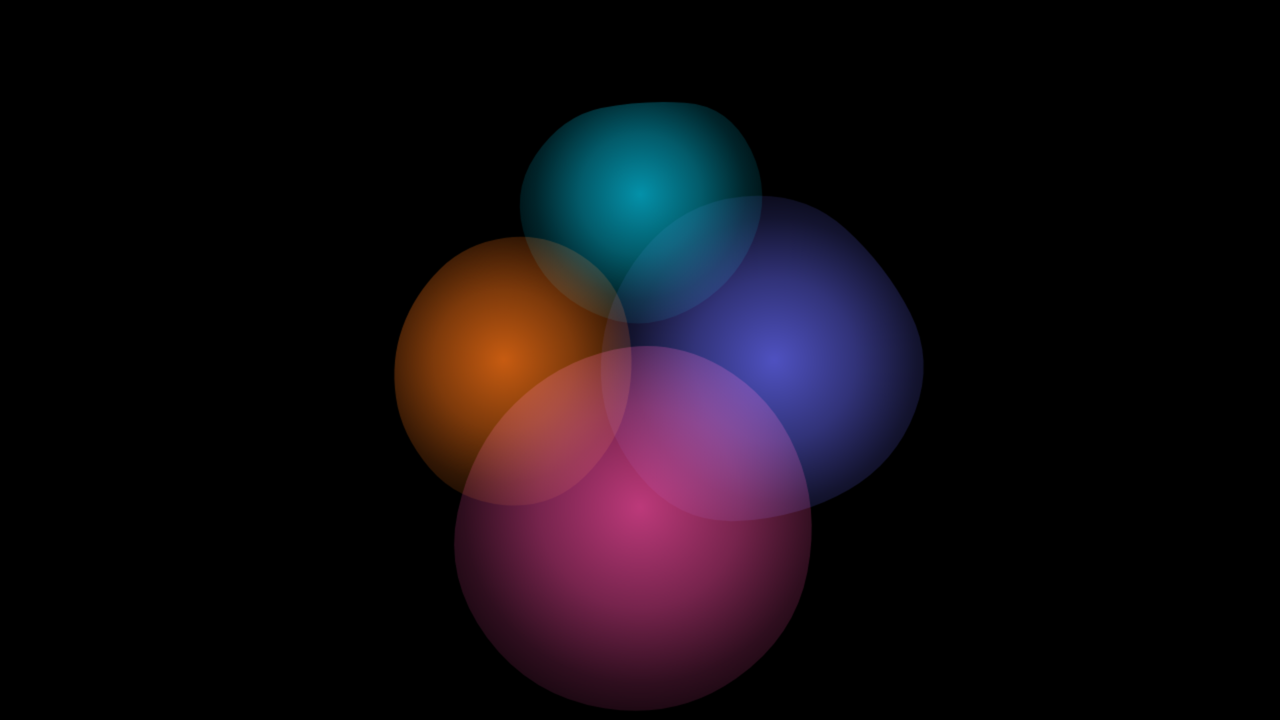
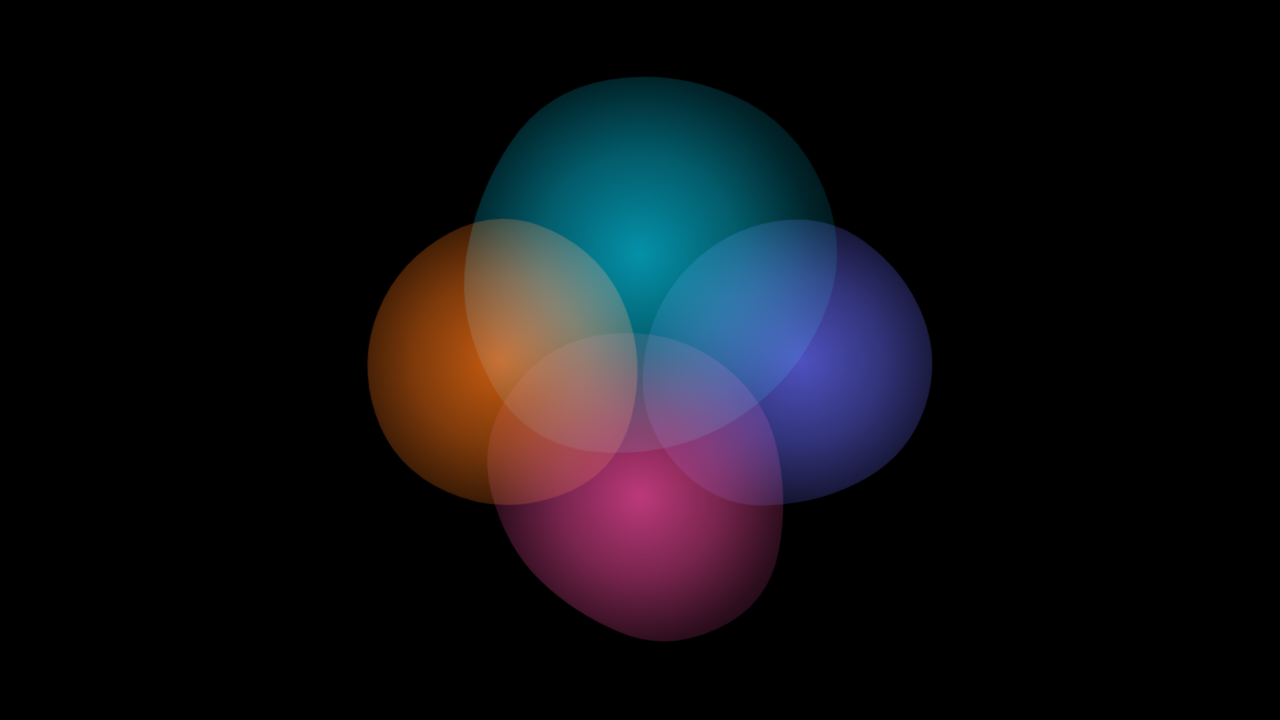
feat(gradient-waves): add screenshot capture and regenerate all effect screenshots
- Added Gradient Waves to screenshot capture pipeline (screenshot-capture.html and capture-screenshots.mjs)
- Captured gradient-waves.png at 1280x720 using Stripe preset colors
- Regenerated all existing effect screenshots for consistency
- README already references gradient-waves.png in effect grid

Changed region(s): [[0.2812, 0.0917, 0.75, 1.0], [0.4688, 0.2139, 0.5312, 0.275]]

diff --git a/src/AppHost/wwwroot/screenshot-capture.html b/src/AppHost/wwwroot/screenshot-capture.html
@@ -31,11 +31,12 @@
     <script type="module">
         // ─── Effect Module Map ──────────────────────────────────────
         const EFFECT_MODULES = {
-            aurora:     './_content/BlazorEffects.Aurora/aurora-borealis.js',
-            noise:      './_content/BlazorEffects.Noise/noise-field.js',
-            blobs:      './_content/BlazorEffects.Blobs/morphing-blobs.js',
-            matrixrain: './_content/BlazorEffects.MatrixRain/matrix-rain.js',
-            particles:  './_content/BlazorEffects.Particles/particle-constellation.js',
+            aurora:         './_content/BlazorEffects.Aurora/aurora-borealis.js',
+            noise:          './_content/BlazorEffects.Noise/noise-field.js',
+            blobs:          './_content/BlazorEffects.Blobs/morphing-blobs.js',
+            matrixrain:     './_content/BlazorEffects.MatrixRain/matrix-rain.js',
+            particles:      './_content/BlazorEffects.Particles/particle-constellation.js',
+            gradientwaves:  './_content/BlazorEffects.GradientWaves/gradient-waves.js',
         };
 
         // ─── Default Configs (matched to each effect's normalizeConfig defaults) ───
@@ -93,6 +94,16 @@
                 mouseRadius: 150,
                 mouseForce: 'attract',
                 opacity: 0.6,
+                targetFps: 60,
+            },
+            gradientwaves: {
+                colors: ['#635bff', '#00d4ff', '#ff6b9d', '#a855f7', '#06b6d4', '#f472b6'],
+                pointCount: 6,
+                blobSize: 0.5,
+                speed: 0.004,
+                blurAmount: 80,
+                blendMode: 'normal',
+                opacity: 1.0,
                 targetFps: 60,
             },
         };
